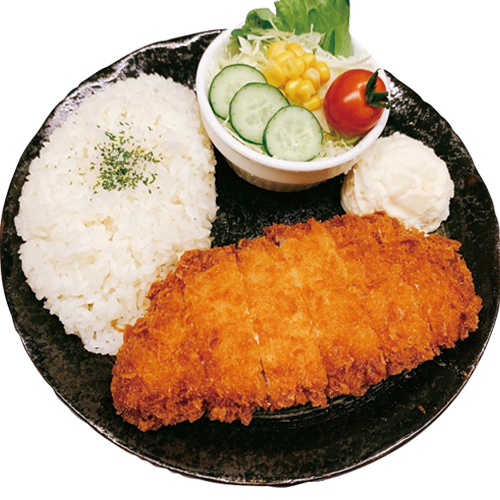
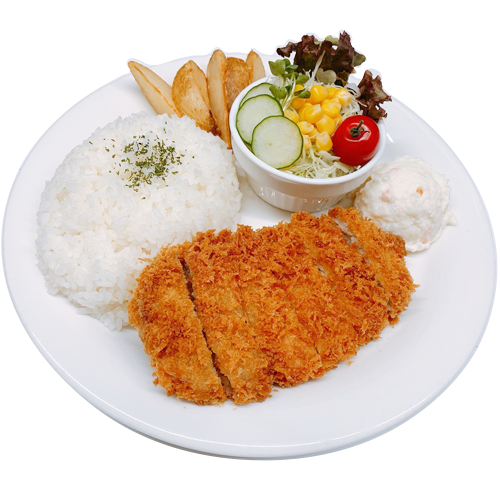
料理サムネ追加

diff --git a/first.html b/first.html
@@ -101,7 +101,7 @@
     </div>
     
     <h2 class="bg-red-800 text-white py-4 text-center text-2xl font-black m-auto mt-20 ">ご利用上の注意</h2>
-    <ul class="max-w-4xl mx-auto px-8 py-8 bg-white shadow-2xl rounded-3xl mb-20">
+    <ul class="max-w-4xl mx-auto px-8 py-8 bg-white shadow-2xl rounded-3xl mb-20 font-black">
       <li class="mb-2">・ご利用中の外出はご遠慮ください。</li>
       <li class="mb-2">・携帯電話はマナーモードに設定してください。ご利用は専用ブースでお願いいたします。</li>
       <li class="mb-2">・ご使用済みの食器や読み終わったコミックなどは、所定の場所までお戻し下さい。</li>
@@ -114,46 +114,46 @@
 
     </ul>
     <h2 class="bg-red-800 text-white py-4 text-center text-2xl font-black m-auto mt-20 ">お子様のご利用について</h2>
-    <div class="max-w-4xl mx-auto px-8 py-8 bg-white shadow-2xl rounded-3xl mb-20">
-      <p><span class="text-red-500 font-bold">16歳未満の方は午後8時まで、18歳未満の方は午後10時まで</span>のご利用とさせていただきます。
+    <div class="max-w-4xl mx-auto px-8 py-8 bg-white shadow-2xl rounded-3xl mb-20 font-black">
+      <p><span class="text-red-500">16歳未満の方は午後8時まで、18歳未満の方は午後10時まで</span>のご利用とさせていただきます。
         また、小学生以下のお子様のみでのご利用はお断りしております。保護者同伴でご来店ください。
       </p>
     </div>
 
     <h2 class="bg-red-800 text-white py-4 text-center text-2xl font-black m-auto mt-20 " id="terms">利用規約</h2>
-    <div class="max-w-4xl mx-auto px-8 py-8 bg-white shadow-2xl rounded-3xl mb-20">
+    <div class="max-w-4xl mx-auto px-8 py-8 bg-white shadow-2xl rounded-3xl mb-20 font-black">
       <ul>
-        <li class="mb-2"> <span class="bg-green-500 text-white font-bold px-3">１</span>
+        <li class="mb-2"> <span class="bg-green-500 text-white px-3">１</span>
           ご入会の際には身分証明書のご提示が必要となります。（再発行の場合も同様と致します。）
           また、小学生の方は保護者の同意が必要となります。
         </li>
-        <li class="mb-2"> <span class="bg-green-500 text-white font-bold px-3">２</span>
+        <li class="mb-2"> <span class="bg-green-500 text-white px-3">２</span>
           会員証は入会されたご本人しかご利用になれません。
         </li>
         <li class="mb-2">
-          <span class="bg-green-500 text-white font-bold px-3">３</span>
+          <span class="bg-green-500 text-white px-3">３</span>
           入会申込書の記載事項に変更があった場合は、ご入会手続きをした店舗まで速やかにご連絡ください。
         </li>
-        <li class="mb-2"> <span class="bg-green-500 text-white font-bold px-3">４</span> インターネット上でのトラブル・事故に関しまして、当店では一切責任を負いかねます。</li>
+        <li class="mb-2"> <span class="bg-green-500 text-white px-3">４</span> インターネット上でのトラブル・事故に関しまして、当店では一切責任を負いかねます。</li>
         <li>
-          <span class="bg-green-500 text-white font-bold px-3">５</span>
+          <span class="bg-green-500 text-white px-3">５</span>
           お客様の行為による機材や端末の破損などで当店に損害が発生したと判断された場合、 お客様の実費で弁償していたたく場合がございます。
         </li>
         <li class="mb-2">
-          <span class="bg-green-500 text-white font-bold px-3">６</span>
+          <span class="bg-green-500 text-white px-3">６</span>
           当店のパソコンは、再起動時に初期設定に戻るよう設定されております。
           <p>・保存データ等の消失、損害など。</p>
           <p>・自然災害、通信事業者が原因で起こる故障などのトラブル。</p>
         </li>
         <li class="mb-2">
-          <span class="bg-green-500 text-white font-bold px-3">
+          <span class="bg-green-500 text-white px-3">
             ７</span>
 
           当店端末でご利用可能なコンテンツに関して、著作権法で保護されている権利は著作者、著作権者などに留保されています。
           従いまして、当店コンテンツのご利用は、当店端末による個人の使用に限らせていただきます。
         </li>
         <li class="mb-4">
-          <span class="bg-green-500 text-white font-bold px-3">８</span>
+          <span class="bg-green-500 text-white px-3">８</span>
           以下のいずれかに該当する場合、当店はお客様に会員証の使用を禁止し、会員の除名をさせていただく場合がございます。
           <p class="ml-4">・入会申込書の記載事項に虚偽の合った場合。また、変更があったにもかかわらず届け出がなかった場合。</p>
           <p class="ml-4">・他のお客様のご迷惑になる行為を行った場合。（店内ブース提示の【ご入場に関する規定】参照）</p>
@@ -162,19 +162,19 @@
           <p class="ml-4">・当店の端末を利用して違法行為を行った場合。</p>
         </li>
         <li class="mb-2">
-          <span class="bg-green-500 text-white font-bold px-3">９</span>
+          <span class="bg-green-500 text-white px-3">９</span>
           会員の個人情報につきましては、一切公開することはありません。
         </li>
         <li class="mb-2">
-          <span class="bg-green-500 text-white font-bold px-3">10</span>
+          <span class="bg-green-500 text-white px-3">10</span>
           会員規約は、諸々の事情により予定なく変更させていただく事がございます。予めご了承ください。
         </li>
         <li class="mb-2">
-          <span class="bg-green-500 text-white font-bold px-3">11</span>
+          <span class="bg-green-500 text-white px-3">11</span>
           会員登録されたお客様は、会員規約を承諾されたものといたします。
         </li>
         <li class="mb-2">
-          <span class="bg-green-500 text-white font-bold px-3">12</span>
+          <span class="bg-green-500 text-white px-3">12</span>
           ご入店登録後の料金変更は出来兼ねますので、ご了承願います。
         </li>
       </ul>
@@ -186,31 +186,31 @@
 
 
     <h2 class="bg-red-800 text-white py-4 text-center text-2xl font-black m-auto mt-20 " id="Personalinfo">個人情報保護方針</h2>
-    <div class="max-w-4xl mx-auto px-8 py-8 bg-white shadow-2xl rounded-3xl mb-20">
+    <div class="max-w-4xl mx-auto px-8 py-8 bg-white shadow-2xl rounded-3xl mb-20 font-black">
       <p>当社 株式会社サンミュージックは、インターネットカフェ事業において業務を円滑に行い、お客様により良いサービスを提供するために、お客様の個人情報を取得し保有させていただきます。
         当社は、お客様の個人情報を以下のように取り扱います。
       </p><br>
-      <p><span class="bg-green-500 text-white font-bold px-3">１</span>個人情報の取得</p>
+      <p><span class="bg-green-500 text-white px-3">１</span>個人情報の取得</p>
       <p class="mb-2">当社はお客様の個人情報を公正かつ適法に取得し、保持します。</p>
 
-      <p><span class="bg-green-500 text-white font-bold px-3">２</span>個人情報の取得方法</p>
+      <p><span class="bg-green-500 text-white px-3">２</span>個人情報の取得方法</p>
       <p class="mb-2">犯罪や青少年の非行防止、その他防犯・防災対策のため、お客様直筆の入会申込書とともに身分証明書のコピーを頂きます</p>
-      <p><span class="bg-green-500 text-white font-bold px-3">３</span>個人情報の利用目的の公表</p>
+      <p><span class="bg-green-500 text-white px-3">３</span>個人情報の利用目的の公表</p>
       <p>当社は個人情報を取得する場合、原則として予めお客様に利用目的を公表します。</p>
-      <p class="mb-2"><span class="bg-green-500 text-white font-bold px-3">４</span>個人情報の利用</p>
+      <p class="mb-2"><span class="bg-green-500 text-white px-3">４</span>個人情報の利用</p>
       <p class="mb-2">当社はお客様の個人情報を、お客様にサービスをご提供する目的、または当社各店舗及び関連企業の店舗・商品・営業・その他に関する情報を提供する目的、またマーケティング分析する目的、また警察各省からの、情報提供要請にのみ使用します。</p>
-      <p><span class="bg-green-500 text-white font-bold px-3">５</span>個人情報の安全管理</p>
+      <p><span class="bg-green-500 text-white px-3">５</span>個人情報の安全管理</p>
       <p class="mb-2">当社は個人情報の安全管理が図れるよう各店舗における責任者を設け、従業員に対する必要かつ適切な指導と監督を行っています。また個人情報の漏洩、滅失または毀損などを防止するため、適切な安全管理措置を講じます。</p>
-      <p><span class="bg-green-500 text-white font-bold px-3">６</span>個人情報の開示等</p>
+      <p><span class="bg-green-500 text-white px-3">６</span>個人情報の開示等</p>
       <p class="mb-2">当社は、当社の保持する個人情報について、ご本人より利用目的の通知、開示、訂正利用停止、当社各店舗および関連企業に情報提供停止のご請求があった場合には、法令の定めるところに従い対応します。</p>
-      <p><span class="bg-green-500 text-white font-bold px-3">７</span>法令の遵守</p>
+      <p><span class="bg-green-500 text-white px-3">７</span>法令の遵守</p>
       <p class="mb-2">当社は、個人情報の保護に対する法律その他の法令を遵守し、個人情報の保護に努めます。</p>
 
 
       <h3 class="bg-red-500 text-white text-center py-4 my-8">個人情報の取り扱いについての重要項目</h3>
 
 
-      <p><span class="bg-green-500 text-white font-bold px-3">１</span>個人情報の第三者提供について</p>
+      <p><span class="bg-green-500 text-white px-3">１</span>個人情報の第三者提供について</p>
       <p class="mb-2">当社は以下の各項に定める場合を除き、お客様の同意を得ることなく、お客様より取得した個人情報を第三者に提供することはありません。
 
         法令に基づく場合。
@@ -223,7 +223,7 @@
 
 
 
-      <p><span class="bg-green-500 text-white font-bold px-3">２</span>開示等の求めに応じる手続き</p>
+      <p><span class="bg-green-500 text-white px-3">２</span>開示等の求めに応じる手続き</p>
       <p> 当社では、個人情報に関するお客様のお問い合わせを各店舗店頭にて承っております。
         その際本人確認のため、運転免許証、パスポート等の公的書類のコピーをご提供いただいております。
 

diff --git a/comic.html b/comic.html
@@ -84,34 +84,34 @@
                         <span class="relative uppercase text-white">店舗別コミック検索はコチラ</span>
                     </p>
                 </div>
-                <div class="text-center mb-10" v-show="modal">
-                    <p class="text-red-500 font-black text-center">検索する店舗を選択してください。</p>
+                <div class="text-center mb-10 font-black" v-show="modal">
+                    <p class="text-red-500 text-center">検索する店舗を選択してください。</p>
                     <div class="flex flex-wrap">
-                        <a href="http://www2.uraraka-comic.com/comic/index.php?tcd=MjA2OA" class="w-1/2 py-4 font-black border-b-2 border-gray-200 hover:text-gray-600">
+                        <a href="http://www2.uraraka-comic.com/comic/index.php?tcd=MjA2OA" class="w-1/2 py-4 border-b-2 border-gray-200 hover:text-gray-600">
                             <p>@time 長浜店</p>
                         </a>
-                        <a href="http://www2.uraraka-comic.com/comic/index.php?tcd=MjA3MQ" class="w-1/2 py-4 font-black border-b-2 border-gray-200 hover:text-gray-600">
+                        <a href="http://www2.uraraka-comic.com/comic/index.php?tcd=MjA3MQ" class="w-1/2 py-4 border-b-2 border-gray-200 hover:text-gray-600">
                             <p>@time 長浜バイパス店</p>
                         </a>
-                        <a href="http://www2.uraraka-comic.com/comic/index.php?tcd=MjA2OQ" class="w-1/2 py-4 font-black border-b-2 border-gray-200 hover:text-gray-600">
+                        <a href="http://www2.uraraka-comic.com/comic/index.php?tcd=MjA2OQ" class="w-1/2 py-4 border-b-2 border-gray-200 hover:text-gray-600">
                             <p>@time 彦根店</p>
                         </a>
-                        <a href="http://www2.uraraka-comic.com/comic/index.php?tcd=MjA3Mw" class="w-1/2 py-4 font-black border-b-2 border-gray-200 hover:text-gray-600">
+                        <a href="http://www2.uraraka-comic.com/comic/index.php?tcd=MjA3Mw" class="w-1/2 py-4 border-b-2 border-gray-200 hover:text-gray-600">
                             <p>@time 八日市店</p>
                         </a>
-                        <a href="http://www2.uraraka-comic.com/comic/index.php?tcd=MjA3Mg" class="w-1/2 py-4 font-black border-b-2 border-gray-200 hover:text-gray-600">
+                        <a href="http://www2.uraraka-comic.com/comic/index.php?tcd=MjA3Mg" class="w-1/2 py-4 border-b-2 border-gray-200 hover:text-gray-600">
                             <p>@time 近江八幡店</p>
                         </a>
-                        <a href="http://www2.uraraka-comic.com/comic/index.php?tcd=MTc1OQ" class="w-1/2 py-4 font-black border-b-2 border-gray-200 hover:text-gray-600">
+                        <a href="http://www2.uraraka-comic.com/comic/index.php?tcd=MTc1OQ" class="w-1/2 py-4 border-b-2 border-gray-200 hover:text-gray-600">
                             <p>@time 水口店</p>
                         </a>
-                        <a href="http://www2.uraraka-comic.com/comic/index.php?tcd=MjA3NA" class="w-1/2 py-4 font-black border-b-2 border-gray-200 hover:text-gray-600">
+                        <a href="http://www2.uraraka-comic.com/comic/index.php?tcd=MjA3NA" class="w-1/2 py-4 border-b-2 border-gray-200 hover:text-gray-600">
                             <p>@time 守山店</p>
                         </a>
-                        <a href="http://www2.uraraka-comic.com/comic/index.php?tcd=MjA3MA" class="w-1/2 py-4 font-black border-b-2 border-gray-200 hover:text-gray-600">
+                        <a href="http://www2.uraraka-comic.com/comic/index.php?tcd=MjA3MA" class="w-1/2 py-4 border-b-2 border-gray-200 hover:text-gray-600">
                             <p>@time 草津店</p>
                         </a>
-                        <a href="http://www2.uraraka-comic.com/comic/index.php?tcd=MTc2MA" class="w-1/2 py-4 font-black border-b-2 border-gray-200 hover:text-gray-600">
+                        <a href="http://www2.uraraka-comic.com/comic/index.php?tcd=MTc2MA" class="w-1/2 py-4 border-b-2 border-gray-200 hover:text-gray-600">
                             <p>@time 西大津店</p>
                         </a>
                     </div>

diff --git a/booth-menu.html b/booth-menu.html
@@ -56,15 +56,15 @@
                     </div>
                 </a>
             </div>
-            <div class="bg-yellow-100">
+            <div class="bg-yellow-100 font-black">
                 <ul class="flex flex-wrap flex-row pt-4 pb-8 text-center mb-8 underline">
-                    <li class="font-black w-1/2 sm:w-1/2 lg:w-1/3 hover:text-red-800 pt-4 text-lg"><a href="#h2-don">丼もの</a></li>
-                    <li class="font-black w-1/2 sm:w-1/2 lg:w-1/3 hover:text-red-800 pt-4 text-lg"><a href="#h2-curry">カレー</a></li>
-                    <li class="font-black w-1/2 sm:w-1/2 lg:w-1/3 hover:text-red-800 pt-4 text-lg"><a href="#h2-plate">プレート</a></li>
-                    <li class="font-black w-1/2 sm:w-1/2 lg:w-1/3 hover:text-red-800 pt-4 text-lg"><a href="#h2-pasta">パスタ</a></li>
-                    <li class="font-black w-1/2 sm:w-1/2 lg:w-1/3 hover:text-red-800 pt-4 text-lg"><a href="#h2-pan">パン&ピザ</a></li>
-                    <li class="font-black w-1/2 sm:w-1/2 lg:w-1/3 hover:text-red-800 pt-4 text-lg"><a href="#h2-side">サイドメニュー</a></li>
-                    <li class="font-black w-1/2 sm:w-1/2 lg:w-1/3 hover:text-red-800 pt-4 text-lg"><a href="#h2-sweets">デザート</a></li>
+                    <li class="w-1/2 sm:w-1/2 lg:w-1/3 hover:text-red-800 pt-4 text-lg"><a href="#h2-don">丼もの</a></li>
+                    <li class="w-1/2 sm:w-1/2 lg:w-1/3 hover:text-red-800 pt-4 text-lg"><a href="#h2-curry">カレー</a></li>
+                    <li class="w-1/2 sm:w-1/2 lg:w-1/3 hover:text-red-800 pt-4 text-lg"><a href="#h2-plate">プレート</a></li>
+                    <li class="w-1/2 sm:w-1/2 lg:w-1/3 hover:text-red-800 pt-4 text-lg"><a href="#h2-pasta">パスタ</a></li>
+                    <li class="w-1/2 sm:w-1/2 lg:w-1/3 hover:text-red-800 pt-4 text-lg"><a href="#h2-pan">パン&ピザ</a></li>
+                    <li class="w-1/2 sm:w-1/2 lg:w-1/3 hover:text-red-800 pt-4 text-lg"><a href="#h2-side">サイドメニュー</a></li>
+                    <li class="w-1/2 sm:w-1/2 lg:w-1/3 hover:text-red-800 pt-4 text-lg"><a href="#h2-sweets">デザート</a></li>
                 </ul>
             </div>
 

diff --git a/TOP.html b/TOP.html
@@ -126,12 +126,15 @@
   <a href="./services.html">
     <p class="text-center text-2xl text-white font-black p-4 my-20 bg-rose-500 max-w-xl mx-auto rounded-full hovor:bg-red-800 duration-500 hover:scale-110">サービス一覧を見る</p>
   </a>
-  <p class="bg-red-800 text-white text-2xl sm:text-3xl py-8 px-8 max-w-2xl mx-auto text-center duration-500 font-black">豊富なお食事メニュー</p>
-  <div class="bg-gray-500 py-48 w-1/2 mx-auto mt-4">
-    <p class="text-white text-center">料理サムネイル画像</p>
-  </div>
+  <p class="bg-red-800 text-white text-2xl sm:text-3xl py-8 px-8 max-w-4xl mx-auto text-center duration-500 font-black">豊富なお食事メニュー</p>
+  <a href="./booth-menu.html">
+    <div class="lg:w-1/2 mx-auto mt-4">
+      <img src="./img/menu-thumbnail.png" alt="料理サムネイル画像" class="hover:brightness-125">
+    </div>
+  </a>
+
   <a href="./booth-menu.html"><p class="text-center text-2xl text-white font-black p-4 my-20 bg-rose-500 max-w-xl mx-auto rounded-full hovor:bg-red-800 duration-500 hover:scale-110">お食事メニューを詳しく見る</p></a>
-  <p class="bg-red-800 text-white text-2xl sm:text-3xl py-8 px-8 max-w-2xl mx-auto text-center duration-500 mt-20 font-black mb-8">店舗を探す</p>
+  <p class="bg-red-800 text-white text-2xl sm:text-3xl py-8 px-8 max-w-4xl mx-auto text-center duration-500 mt-20 font-black mb-8">店舗を探す</p>
   <div id="searchstore">
   </div>
 

diff --git a/search.html b/search.html
@@ -26,7 +26,7 @@
 
 <body background="./img/background/email-pattern.jpg">
   <div id="header"></div>
-  <div style="background-image:url(./img/background/5.jpg);" class="relative py-20 bg-cover bg-center bg-no-repeat mb-20 hide mt-20">
+  <div style="background-image:url(./img/background/5.jpg);" class="relative py-20 bg-cover bg-center bg-no-repeat mb-20 hide mt-10">
     <h2 class="text-2xl leading-normal mb-2 font-black text-center bg-black text-white py-2">－店舗を探す－</h2>
   </div>
   <div class="m-auto" id="store">
@@ -45,7 +45,6 @@
       <area target="_blank" alt="nishiohthu" title="nishiohthu" href="./store/nishiohthu.html" coords="13,498,140,549" shape="rect">
       <area target="_blank" alt="kusathu" title="kusathu" href="./store/kusathu.html" coords="59,611,187,663" shape="rect">
     </map>
-
   </div>
 
   <div id="footer" class="hide"></div>
